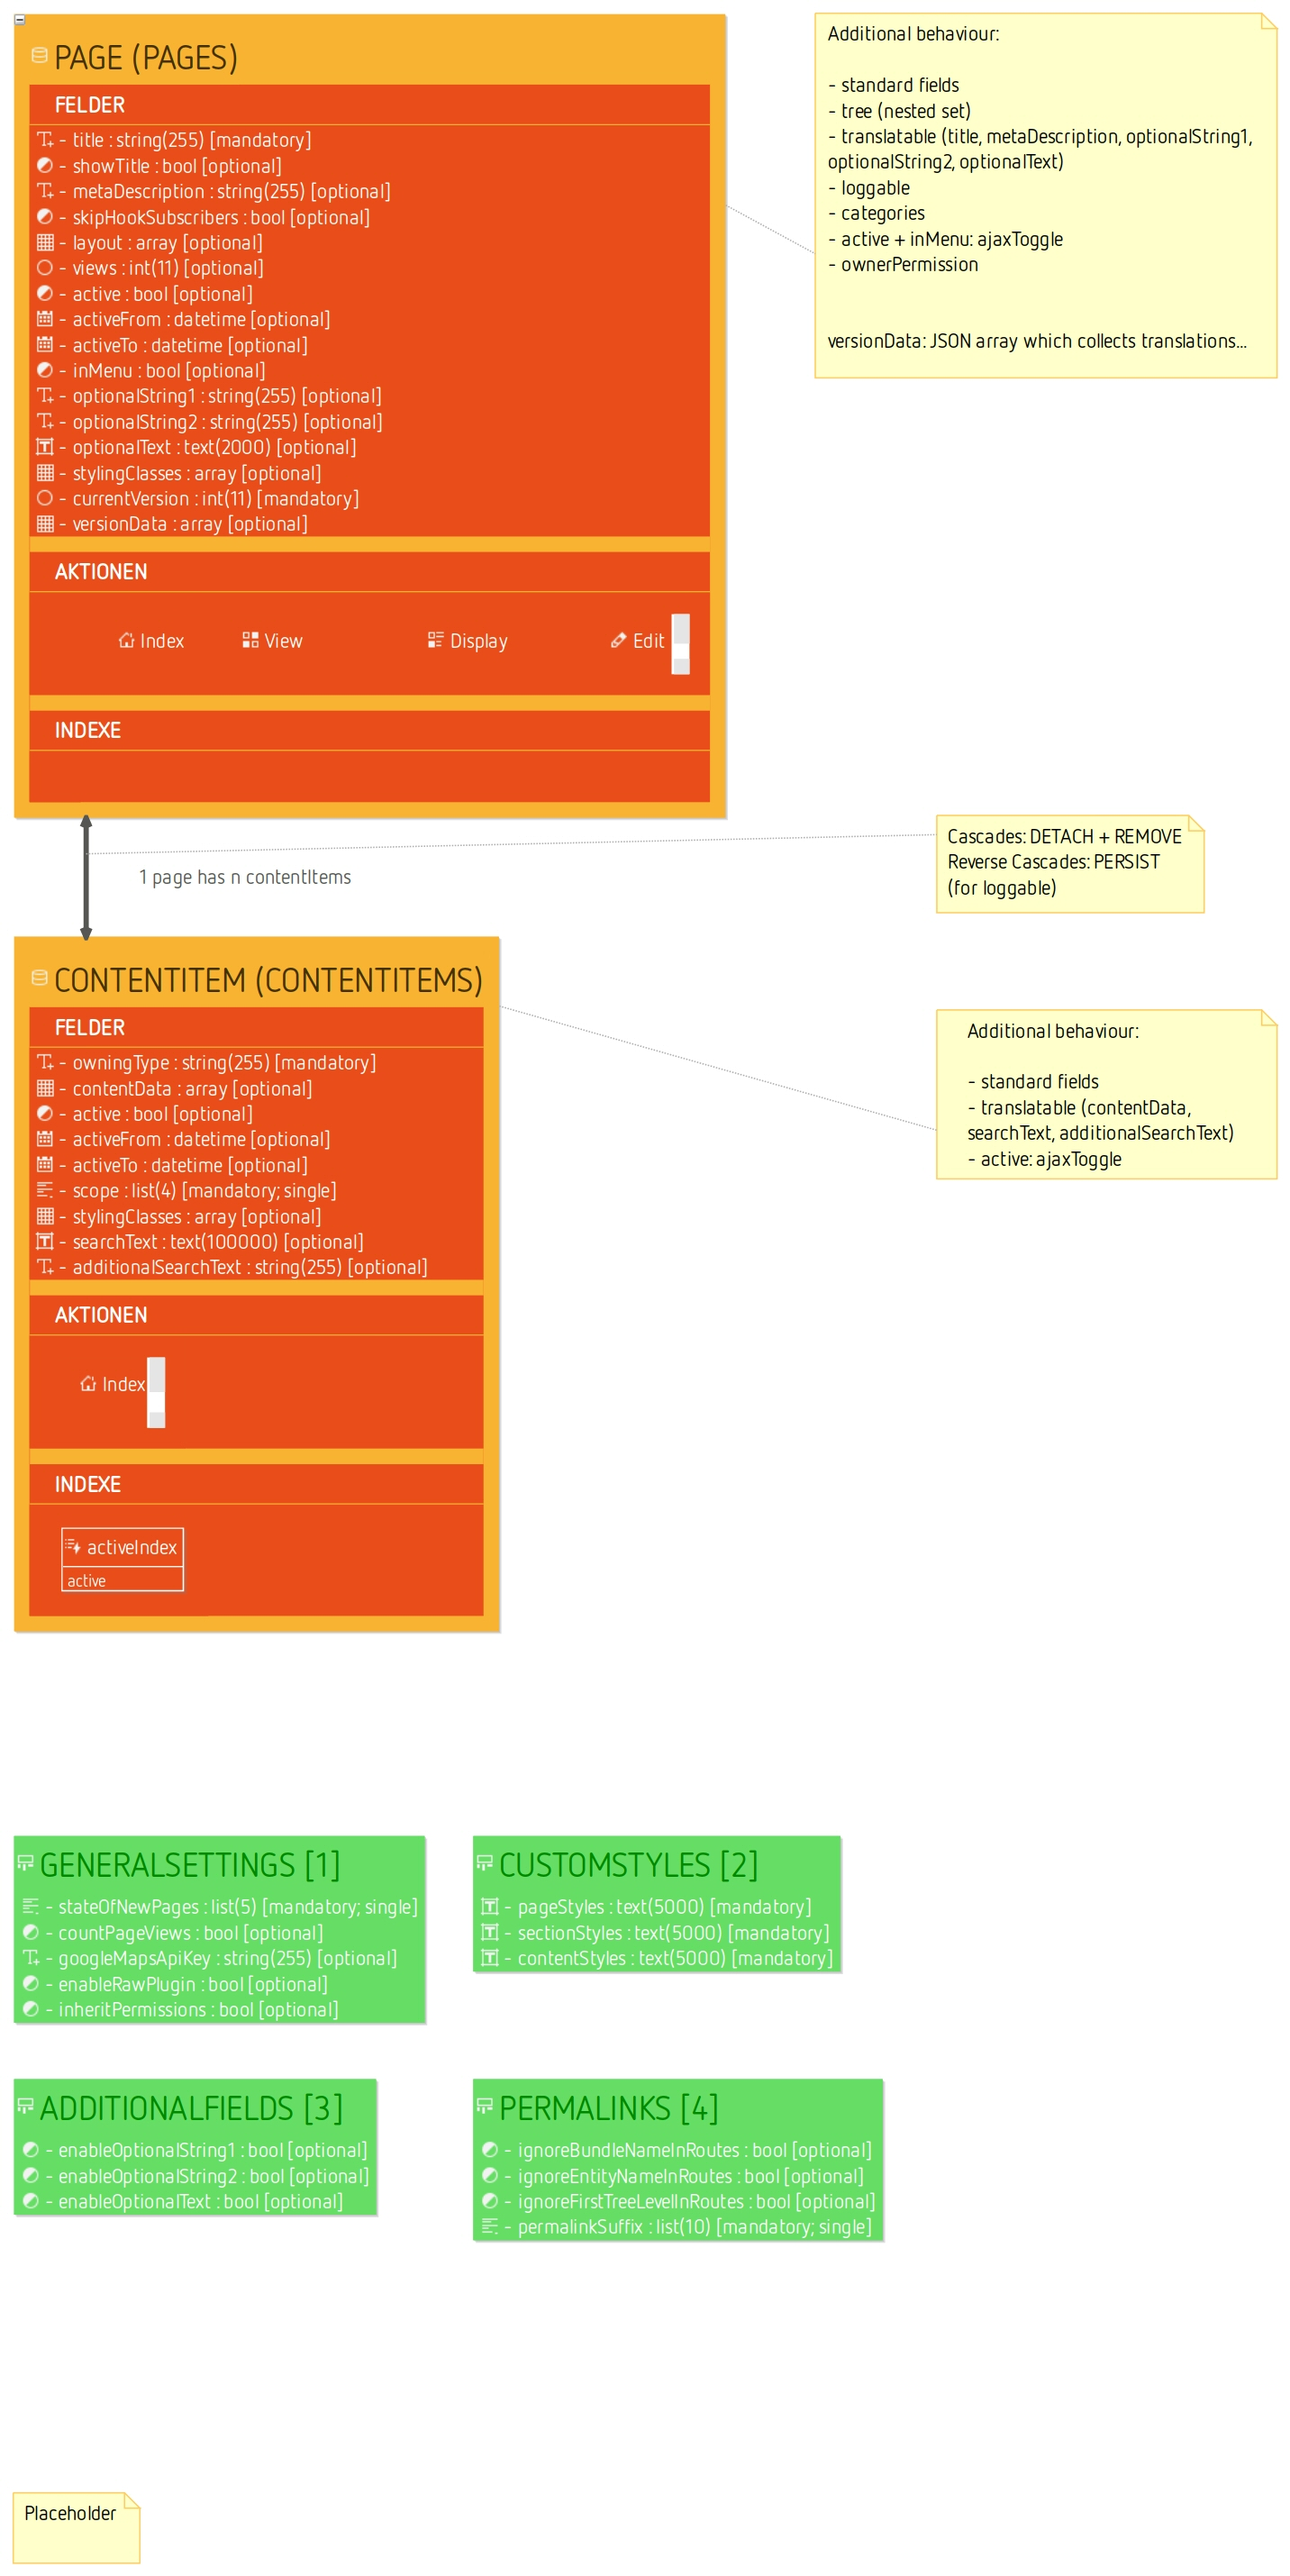
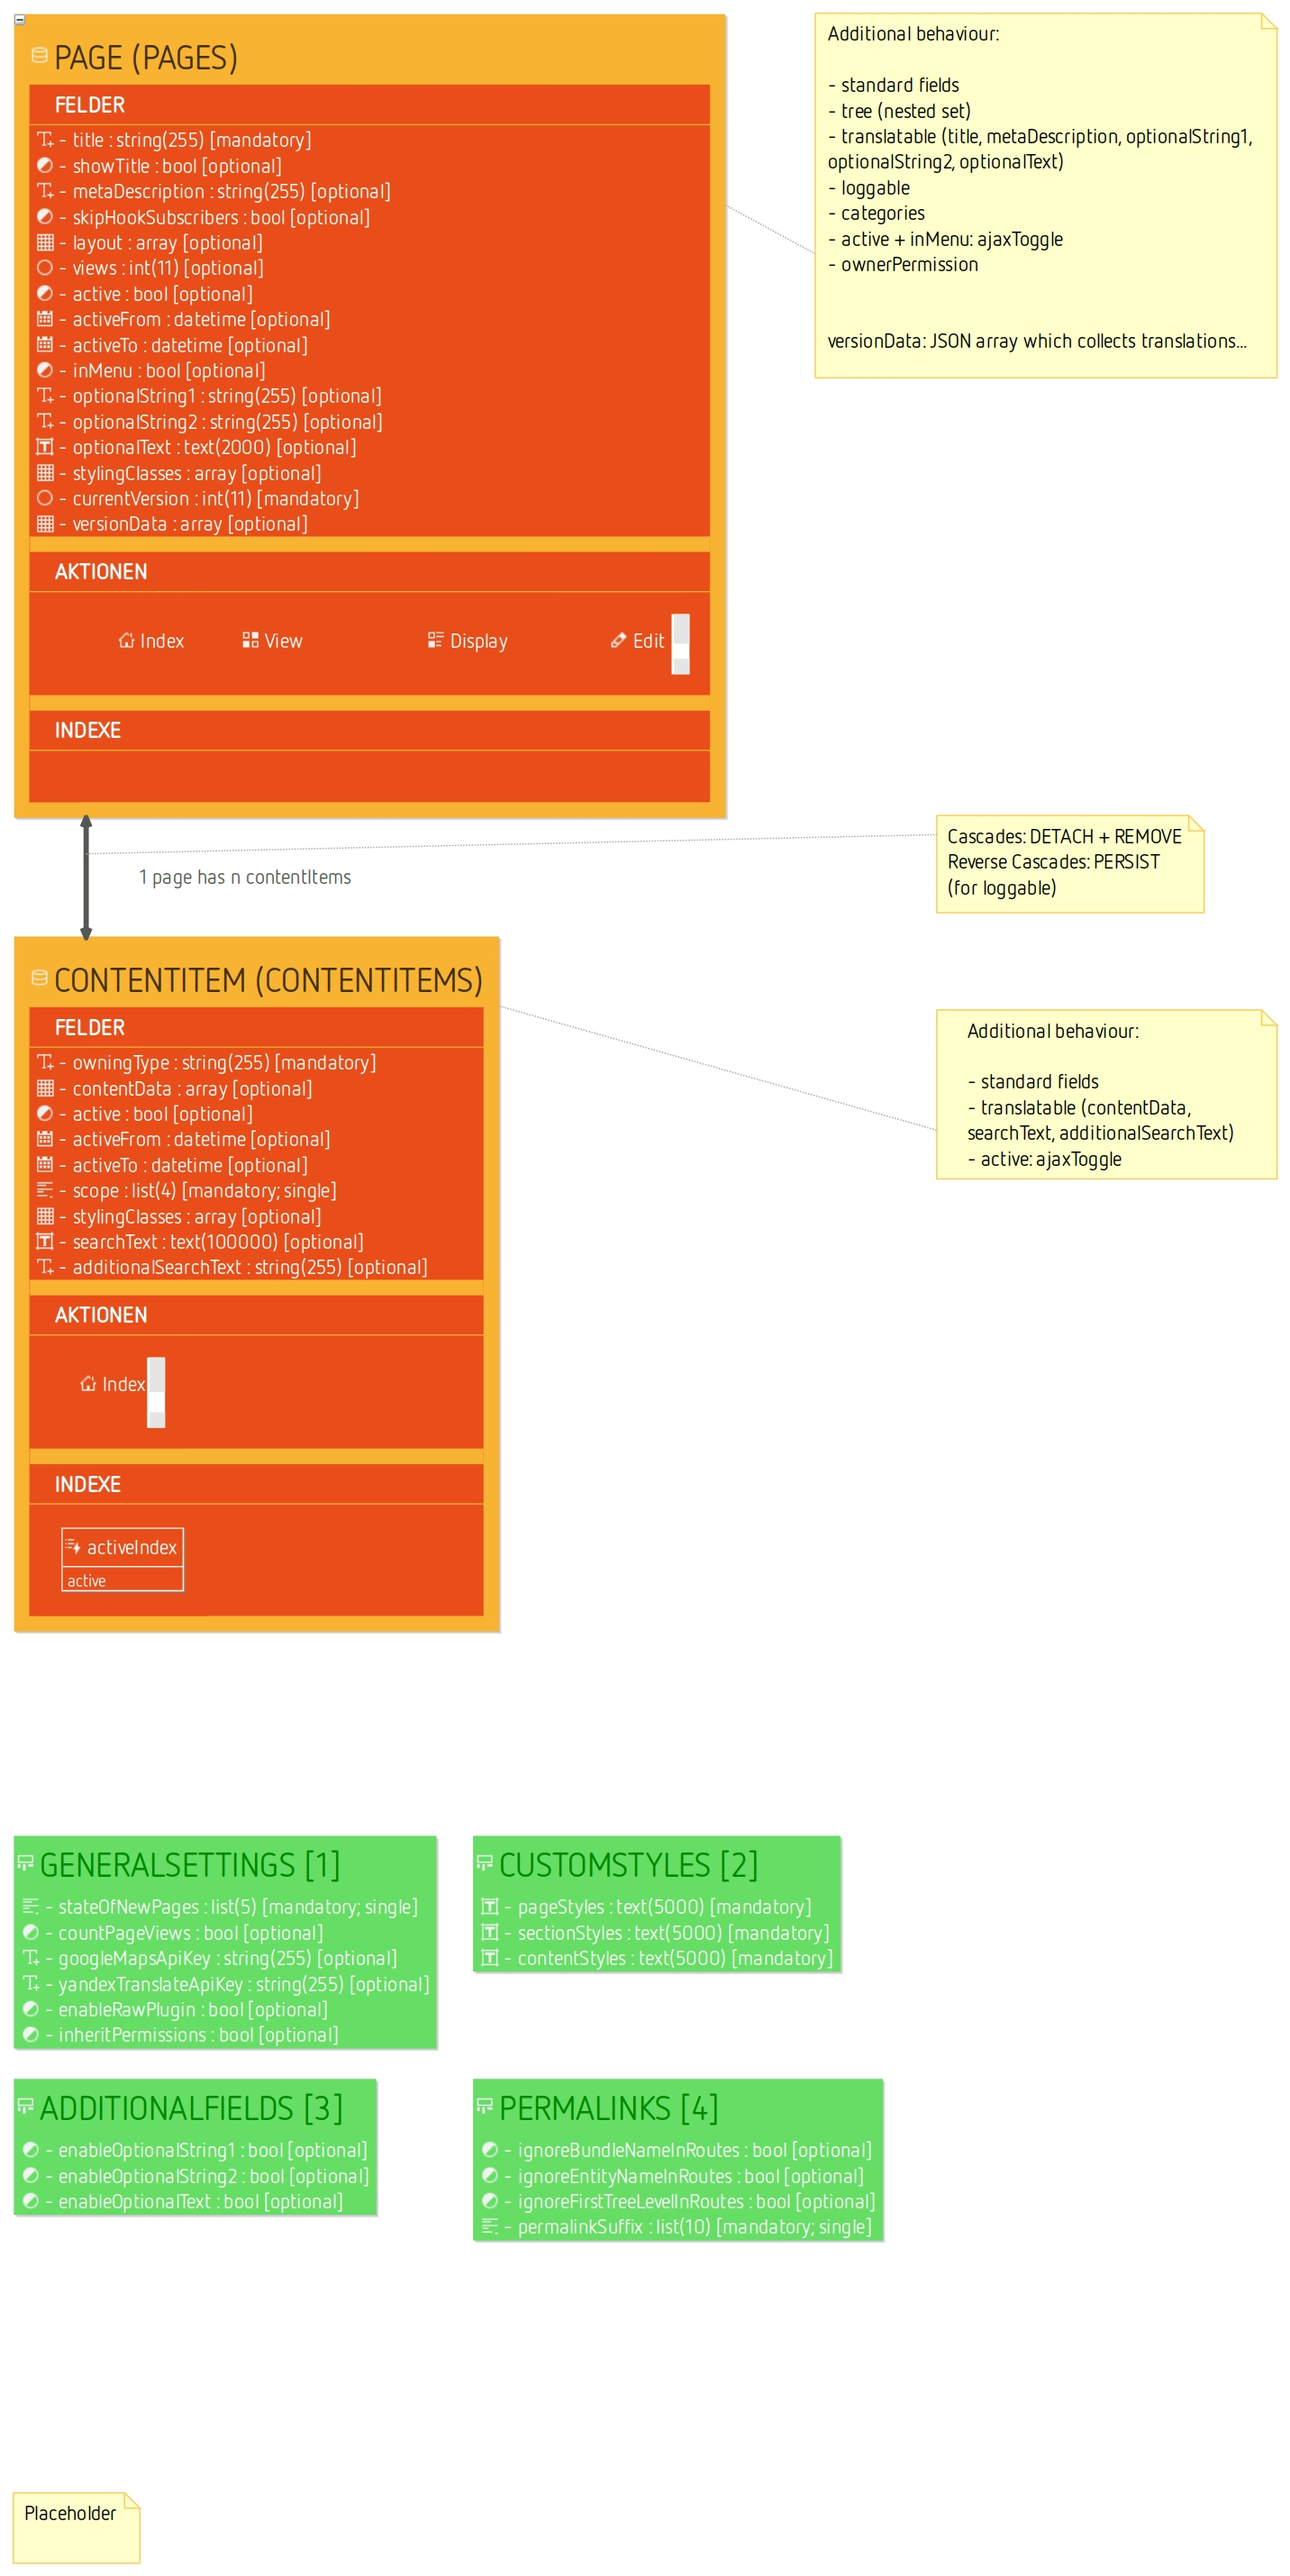
prepared translation support by API, refs #252

Changed region(s): [[0.0, 0.716, 0.338, 0.8094]]

diff --git a/src/modules/Zikula/ContentModule/Resources/docs/model/structure_de.html b/src/modules/Zikula/ContentModule/Resources/docs/model/structure_de.html
@@ -1260,6 +1260,24 @@
                 </td>
             </tr>
             <tr>
+                <th id="hVariablesGeneralSettingsFieldYandexTranslateApiKey" scope="row" headers="hVariablesGeneralSettingsFieldName">Yandex translate api key</th>
+                <td headers="hVariablesGeneralSettingsFieldYandexTranslateApiKey hVariablesGeneralSettingsFieldType">Zeichenkette</td>
+                <td headers="hVariablesGeneralSettingsFieldYandexTranslateApiKey hVariablesGeneralSettingsFieldMandatory">false</td>
+                <td headers="hVariablesGeneralSettingsFieldYandexTranslateApiKey hVariablesGeneralSettingsFieldDefault"></td>
+                <td headers="hVariablesGeneralSettingsFieldYandexTranslateApiKey hVariablesGeneralSettingsFieldDisplayType">ALL</td>
+                <td headers="hVariablesGeneralSettingsFieldYandexTranslateApiKey hVariablesGeneralSettingsFieldConstraints">
+                    <ul>
+                        <li>Hat eine Länge von 255 Zeichen.</li>
+                    </ul>
+                </td>
+                <td headers="hVariablesGeneralSettingsFieldYandexTranslateApiKey hVariablesGeneralSettingsFieldRemarks">
+                    <ul>
+                        <li>If you want to get translation support by Yandex which can provide suggestions you need an API key for it. </li>
+                        <li>Dieses Feld ist nicht eindeutig und erlaubt keine Null-Werte.</li>
+                    </ul>
+                </td>
+            </tr>
+            <tr>
                 <th id="hVariablesGeneralSettingsFieldEnableRawPlugin" scope="row" headers="hVariablesGeneralSettingsFieldName">Enable raw plugin</th>
                 <td headers="hVariablesGeneralSettingsFieldEnableRawPlugin hVariablesGeneralSettingsFieldType">Boolesches</td>
                 <td headers="hVariablesGeneralSettingsFieldEnableRawPlugin hVariablesGeneralSettingsFieldMandatory">false</td>

diff --git a/src/modules/Zikula/ContentModule/Resources/docs/model/structure_en.html b/src/modules/Zikula/ContentModule/Resources/docs/model/structure_en.html
@@ -1260,6 +1260,24 @@
                 </td>
             </tr>
             <tr>
+                <th id="hVariablesGeneralSettingsFieldYandexTranslateApiKey" scope="row" headers="hVariablesGeneralSettingsFieldName">Yandex translate api key</th>
+                <td headers="hVariablesGeneralSettingsFieldYandexTranslateApiKey hVariablesGeneralSettingsFieldType">String</td>
+                <td headers="hVariablesGeneralSettingsFieldYandexTranslateApiKey hVariablesGeneralSettingsFieldMandatory">false</td>
+                <td headers="hVariablesGeneralSettingsFieldYandexTranslateApiKey hVariablesGeneralSettingsFieldDefault"></td>
+                <td headers="hVariablesGeneralSettingsFieldYandexTranslateApiKey hVariablesGeneralSettingsFieldDisplayType">ALL</td>
+                <td headers="hVariablesGeneralSettingsFieldYandexTranslateApiKey hVariablesGeneralSettingsFieldConstraints">
+                    <ul>
+                        <li>Has a length of 255 chars.</li>
+                    </ul>
+                </td>
+                <td headers="hVariablesGeneralSettingsFieldYandexTranslateApiKey hVariablesGeneralSettingsFieldRemarks">
+                    <ul>
+                        <li>If you want to get translation support by Yandex which can provide suggestions you need an API key for it. </li>
+                        <li>This field is not unique and allows no null values.</li>
+                    </ul>
+                </td>
+            </tr>
+            <tr>
                 <th id="hVariablesGeneralSettingsFieldEnableRawPlugin" scope="row" headers="hVariablesGeneralSettingsFieldName">Enable raw plugin</th>
                 <td headers="hVariablesGeneralSettingsFieldEnableRawPlugin hVariablesGeneralSettingsFieldType">Boolean</td>
                 <td headers="hVariablesGeneralSettingsFieldEnableRawPlugin hVariablesGeneralSettingsFieldMandatory">false</td>

diff --git a/src/modules/Zikula/ContentModule/Base/AbstractAppSettings.php b/src/modules/Zikula/ContentModule/Base/AbstractAppSettings.php
@@ -51,6 +51,15 @@ abstract class AbstractAppSettings
     protected $googleMapsApiKey = '';
     
     /**
+     * If you want to get translation support by Yandex which can provide suggestions you need an API key for it.
+     *
+     * @Assert\NotNull()
+     * @Assert\Length(min="0", max="255")
+     * @var string $yandexTranslateApiKey
+     */
+    protected $yandexTranslateApiKey = '';
+    
+    /**
      * Whether to enable the unfiltered raw text plugin. Use this plugin with caution and if you can trust your editors, since no filtering is being done on the content. To be used for iframes, JavaScript blocks, etc.
      *
      * @Assert\NotNull()
@@ -277,6 +286,30 @@ abstract class AbstractAppSettings
     {
         if ($this->googleMapsApiKey !== $googleMapsApiKey) {
             $this->googleMapsApiKey = isset($googleMapsApiKey) ? $googleMapsApiKey : '';
+        }
+    }
+    
+    /**
+     * Returns the yandex translate api key.
+     *
+     * @return string
+     */
+    public function getYandexTranslateApiKey()
+    {
+        return $this->yandexTranslateApiKey;
+    }
+    
+    /**
+     * Sets the yandex translate api key.
+     *
+     * @param string $yandexTranslateApiKey
+     *
+     * @return void
+     */
+    public function setYandexTranslateApiKey($yandexTranslateApiKey)
+    {
+        if ($this->yandexTranslateApiKey !== $yandexTranslateApiKey) {
+            $this->yandexTranslateApiKey = isset($yandexTranslateApiKey) ? $yandexTranslateApiKey : '';
         }
     }
     
@@ -681,6 +714,9 @@ abstract class AbstractAppSettings
         if (isset($moduleVars['googleMapsApiKey'])) {
             $this->setGoogleMapsApiKey($moduleVars['googleMapsApiKey']);
         }
+        if (isset($moduleVars['yandexTranslateApiKey'])) {
+            $this->setYandexTranslateApiKey($moduleVars['yandexTranslateApiKey']);
+        }
         if (isset($moduleVars['enableRawPlugin'])) {
             $this->setEnableRawPlugin($moduleVars['enableRawPlugin']);
         }
@@ -739,6 +775,7 @@ abstract class AbstractAppSettings
         $this->variableApi->set('ZikulaContentModule', 'stateOfNewPages', $this->getStateOfNewPages());
         $this->variableApi->set('ZikulaContentModule', 'countPageViews', $this->getCountPageViews());
         $this->variableApi->set('ZikulaContentModule', 'googleMapsApiKey', $this->getGoogleMapsApiKey());
+        $this->variableApi->set('ZikulaContentModule', 'yandexTranslateApiKey', $this->getYandexTranslateApiKey());
         $this->variableApi->set('ZikulaContentModule', 'enableRawPlugin', $this->getEnableRawPlugin());
         $this->variableApi->set('ZikulaContentModule', 'inheritPermissions', $this->getInheritPermissions());
         $this->variableApi->set('ZikulaContentModule', 'pageStyles', $this->getPageStyles());

diff --git a/src/modules/Zikula/ContentModule/Form/Type/Base/AbstractConfigType.php b/src/modules/Zikula/ContentModule/Form/Type/Base/AbstractConfigType.php
@@ -138,6 +138,22 @@ abstract class AbstractConfigType extends AbstractType
             'required' => false,
         ]);
         
+        $builder->add('yandexTranslateApiKey', TextType::class, [
+            'label' => $this->__('Yandex translate api key') . ':',
+            'label_attr' => [
+                'class' => 'tooltips',
+                'title' => $this->__('If you want to get translation support by Yandex which can provide suggestions you need an API key for it.')
+            ],
+            'help' => $this->__('If you want to get translation support by Yandex which can provide suggestions you need an API key for it.'),
+            'empty_data' => '',
+            'attr' => [
+                'maxlength' => 255,
+                'class' => '',
+                'title' => $this->__('Enter the yandex translate api key.')
+            ],
+            'required' => false,
+        ]);
+        
         $builder->add('enableRawPlugin', CheckboxType::class, [
             'label' => $this->__('Enable raw plugin') . ':',
             'label_attr' => [

diff --git a/src/modules/Zikula/ContentModule/Form/Type/TranslateType.php b/src/modules/Zikula/ContentModule/Form/Type/TranslateType.php
@@ -78,7 +78,7 @@ class TranslateType extends AbstractType
             $this->addPageFields($builder, $options);
         } elseif ('item' == $options['mode']) {
             $this->addItemFields($builder, $options);
-            $hasContentData = null !== $options['content_type'] && count($options['content_type']->getTranslatableDataFields() > 0);
+            $hasContentData = null !== $options['content_type'] && count($options['content_type']->getTranslatableDataFields()) > 0;
             if ($hasContentData) {
                 $editFormClass = $options['content_type']->getEditFormClass();
                 if (null !== $editFormClass && '' !== $editFormClass && class_exists($editFormClass)) {

diff --git a/src/modules/Zikula/ContentModule/Base/AbstractContentModuleInstaller.php b/src/modules/Zikula/ContentModule/Base/AbstractContentModuleInstaller.php
@@ -47,6 +47,7 @@ abstract class AbstractContentModuleInstaller extends AbstractExtensionInstaller
         $this->setVar('stateOfNewPages', '1');
         $this->setVar('countPageViews', false);
         $this->setVar('googleMapsApiKey', '');
+        $this->setVar('yandexTranslateApiKey', '');
         $this->setVar('enableRawPlugin', false);
         $this->setVar('inheritPermissions', false);
         $this->setVar('pageStyles', 'dummy|Dummy');

diff --git a/src/modules/Zikula/ContentModule/Base/bootstrap.php b/src/modules/Zikula/ContentModule/Base/bootstrap.php
@@ -6,7 +6,7 @@
  * @license http://www.gnu.org/licenses/lgpl.html GNU Lesser General Public License
  * @author Axel Guckelsberger <info@ziku.la>.
  * @link https://ziku.la
- * @version Generated by ModuleStudio 1.3.2 (https://modulestudio.de) at Fri Aug 17 09:33:09 CEST 2018.
+ * @version Generated by ModuleStudio 1.3.2 (https://modulestudio.de) at Fri Aug 17 14:28:05 CEST 2018.
  */
 
 /**

diff --git a/src/modules/Zikula/ContentModule/bootstrap.php b/src/modules/Zikula/ContentModule/bootstrap.php
@@ -6,7 +6,7 @@
  * @license http://www.gnu.org/licenses/lgpl.html GNU Lesser General Public License
  * @author Axel Guckelsberger <info@ziku.la>.
  * @link https://ziku.la
- * @version Generated by ModuleStudio 1.3.2 (https://modulestudio.de) at Fri Aug 17 09:33:09 CEST 2018.
+ * @version Generated by ModuleStudio 1.3.2 (https://modulestudio.de) at Fri Aug 17 14:28:05 CEST 2018.
  */
 
 /**
